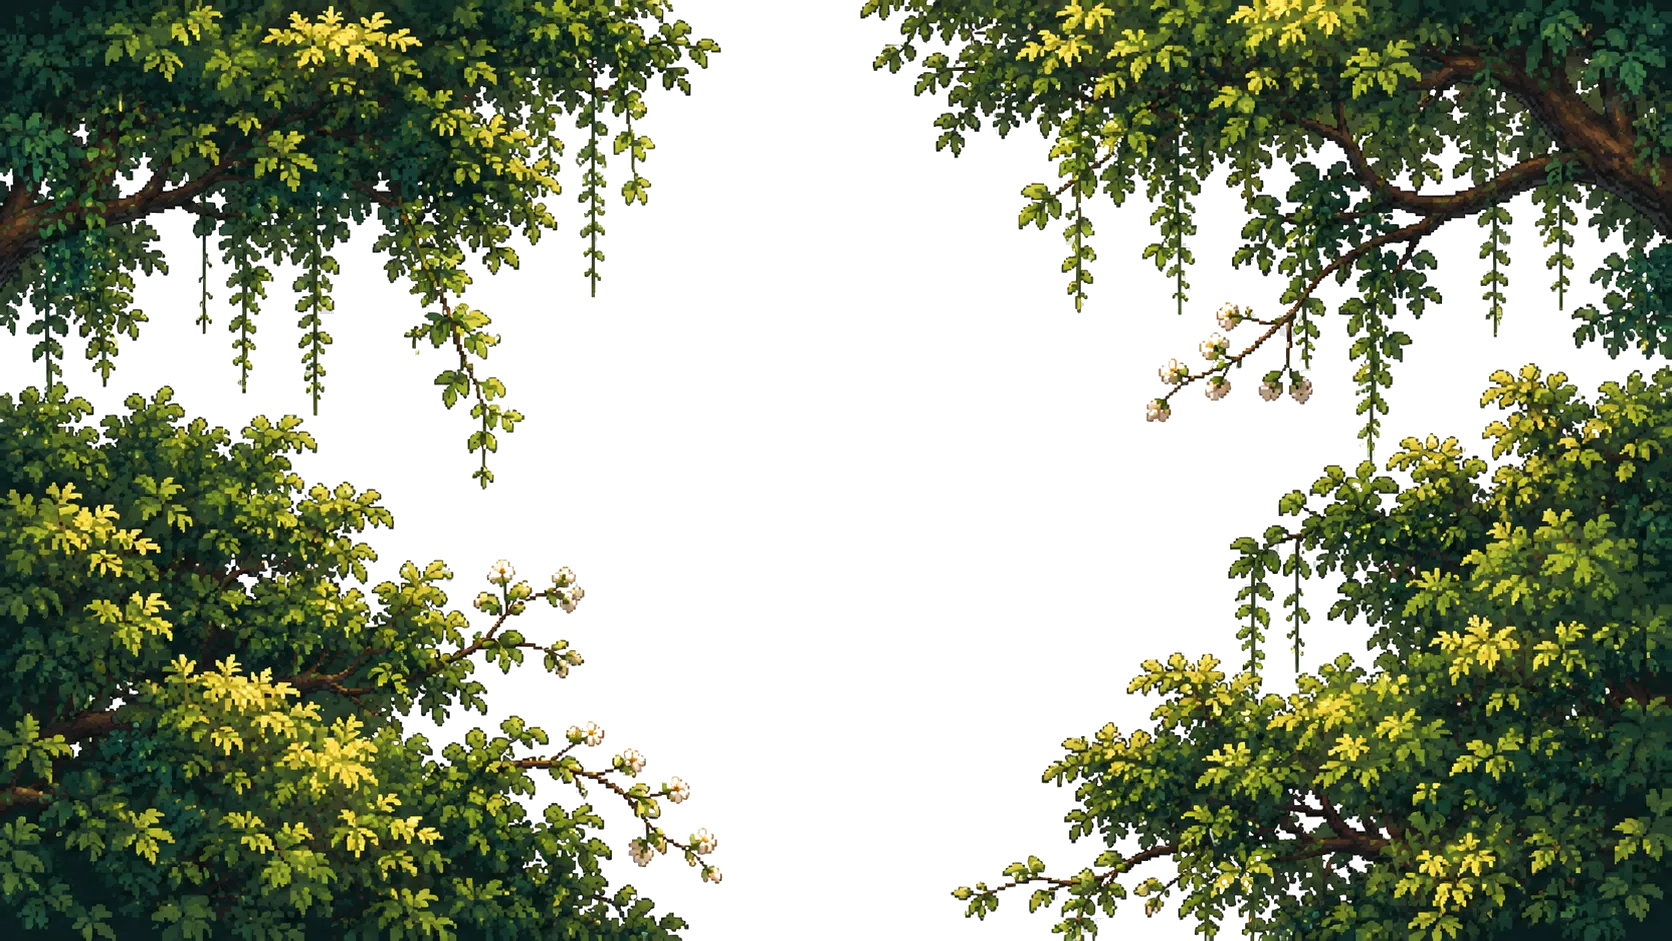
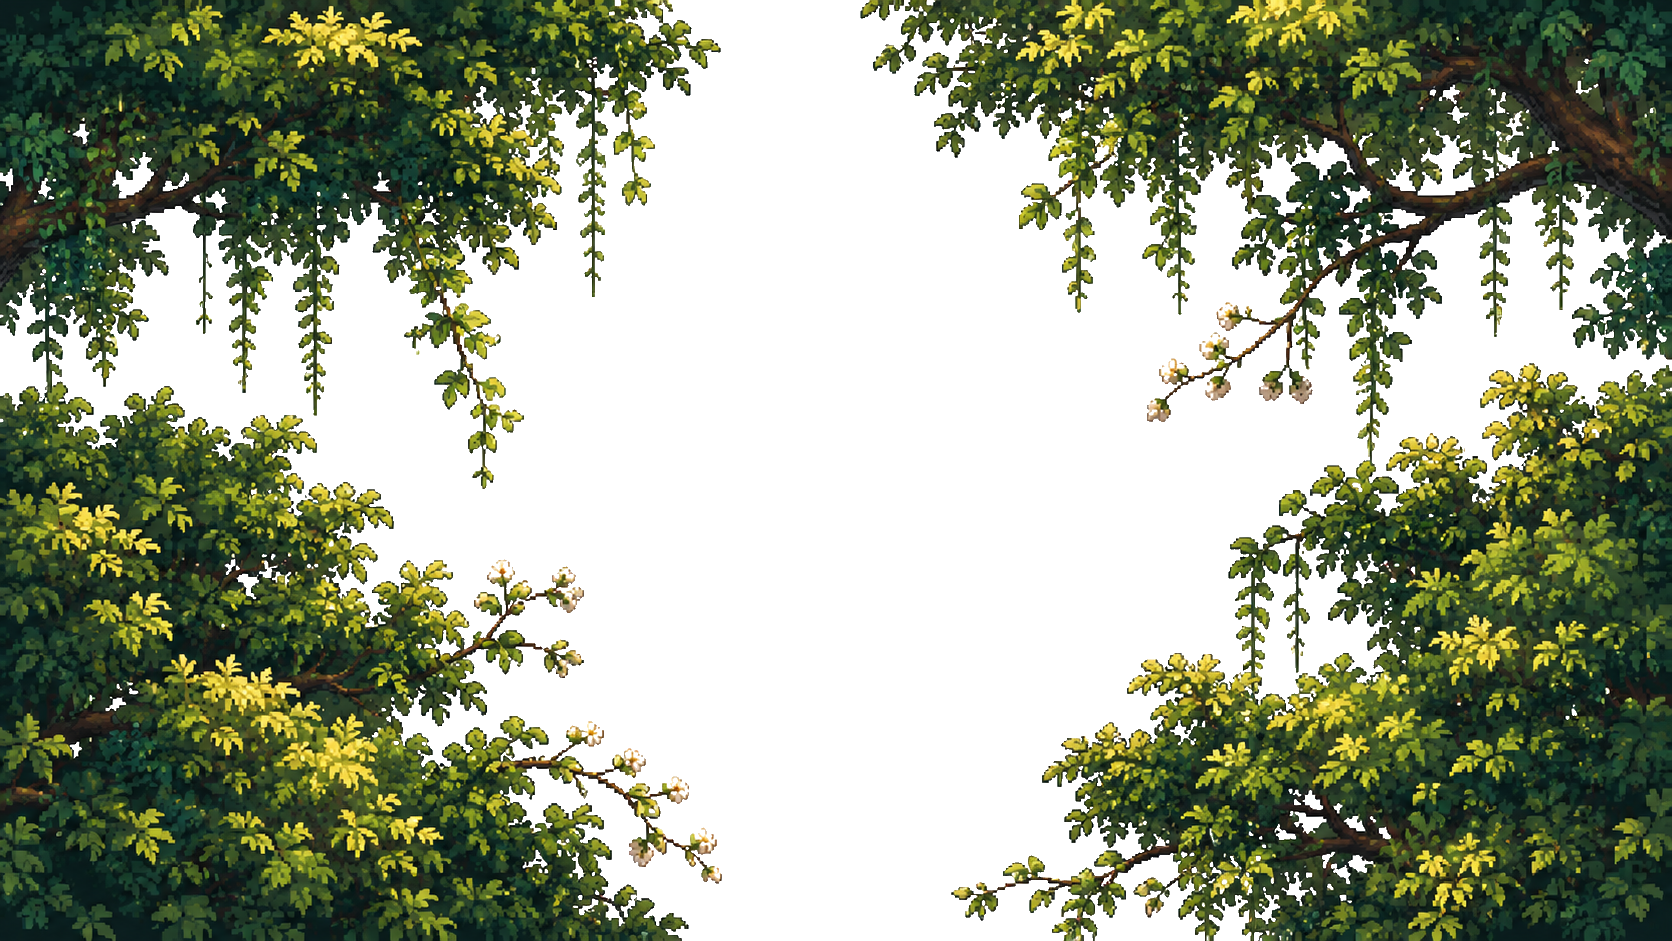
fix: refine cinematic route framing and canopy edges

diff --git a/src/game/data/campusRoute.ts b/src/game/data/campusRoute.ts
@@ -6,10 +6,16 @@ export interface RoutePoint {
 export const CAMPUS_TOUR_ROUTE: RoutePoint[] = [
   { x: 838 * 2, y: 307 * 2 },
   { x: 660 * 2, y: 300 * 2 },
-  { x: 620 * 2, y: 240 * 2 },
-  { x: 620 * 2, y: 92 * 2 },
-  { x: 410 * 2, y: 92 * 2 },
-  { x: 410 * 2, y: 245 * 2 },
-  { x: 510 * 2, y: 300 * 2 },
+  { x: 520 * 2, y: 310 * 2 },
+  { x: 470 * 2, y: 390 * 2 },
+  { x: 470 * 2, y: 520 * 2 },
+  { x: 520 * 2, y: 600 * 2 },
+  { x: 620 * 2, y: 650 * 2 },
+  { x: 700 * 2, y: 670 * 2 },
+  { x: 620 * 2, y: 650 * 2 },
+  { x: 520 * 2, y: 600 * 2 },
+  { x: 470 * 2, y: 520 * 2 },
+  { x: 470 * 2, y: 390 * 2 },
+  { x: 520 * 2, y: 310 * 2 },
   { x: 660 * 2, y: 300 * 2 }
 ];

diff --git a/src/game/systems/PlayerController.ts b/src/game/systems/PlayerController.ts
@@ -17,8 +17,8 @@ export class PlayerController {
     scene: Phaser.Scene,
     private readonly input: InputController
   ) {
-    const shadow = scene.add.ellipse(0, 39, 50, 18, 0x07110d, 0.3);
-    this.sprite = scene.add.sprite(0, 0, "student-walk", 0).setScale(0.78);
+    const shadow = scene.add.ellipse(0, 47, 58, 20, 0x07110d, 0.3);
+    this.sprite = scene.add.sprite(0, 0, "student-walk", 0).setScale(0.96);
     this.createAnimations(scene);
 
     this.avatar = scene.add.container(SPAWN_X, SPAWN_Y, [shadow, this.sprite]);

diff --git a/scripts/process-foreground-canopy.py b/scripts/process-foreground-canopy.py
@@ -8,7 +8,7 @@ from PIL import Image
 
 
 def is_checker(pixel: tuple[int, int, int]) -> bool:
-    return max(pixel) - min(pixel) <= 18 and min(pixel) >= 228
+    return max(pixel) - min(pixel) <= 30 and min(pixel) >= 150
 
 
 def main() -> None: